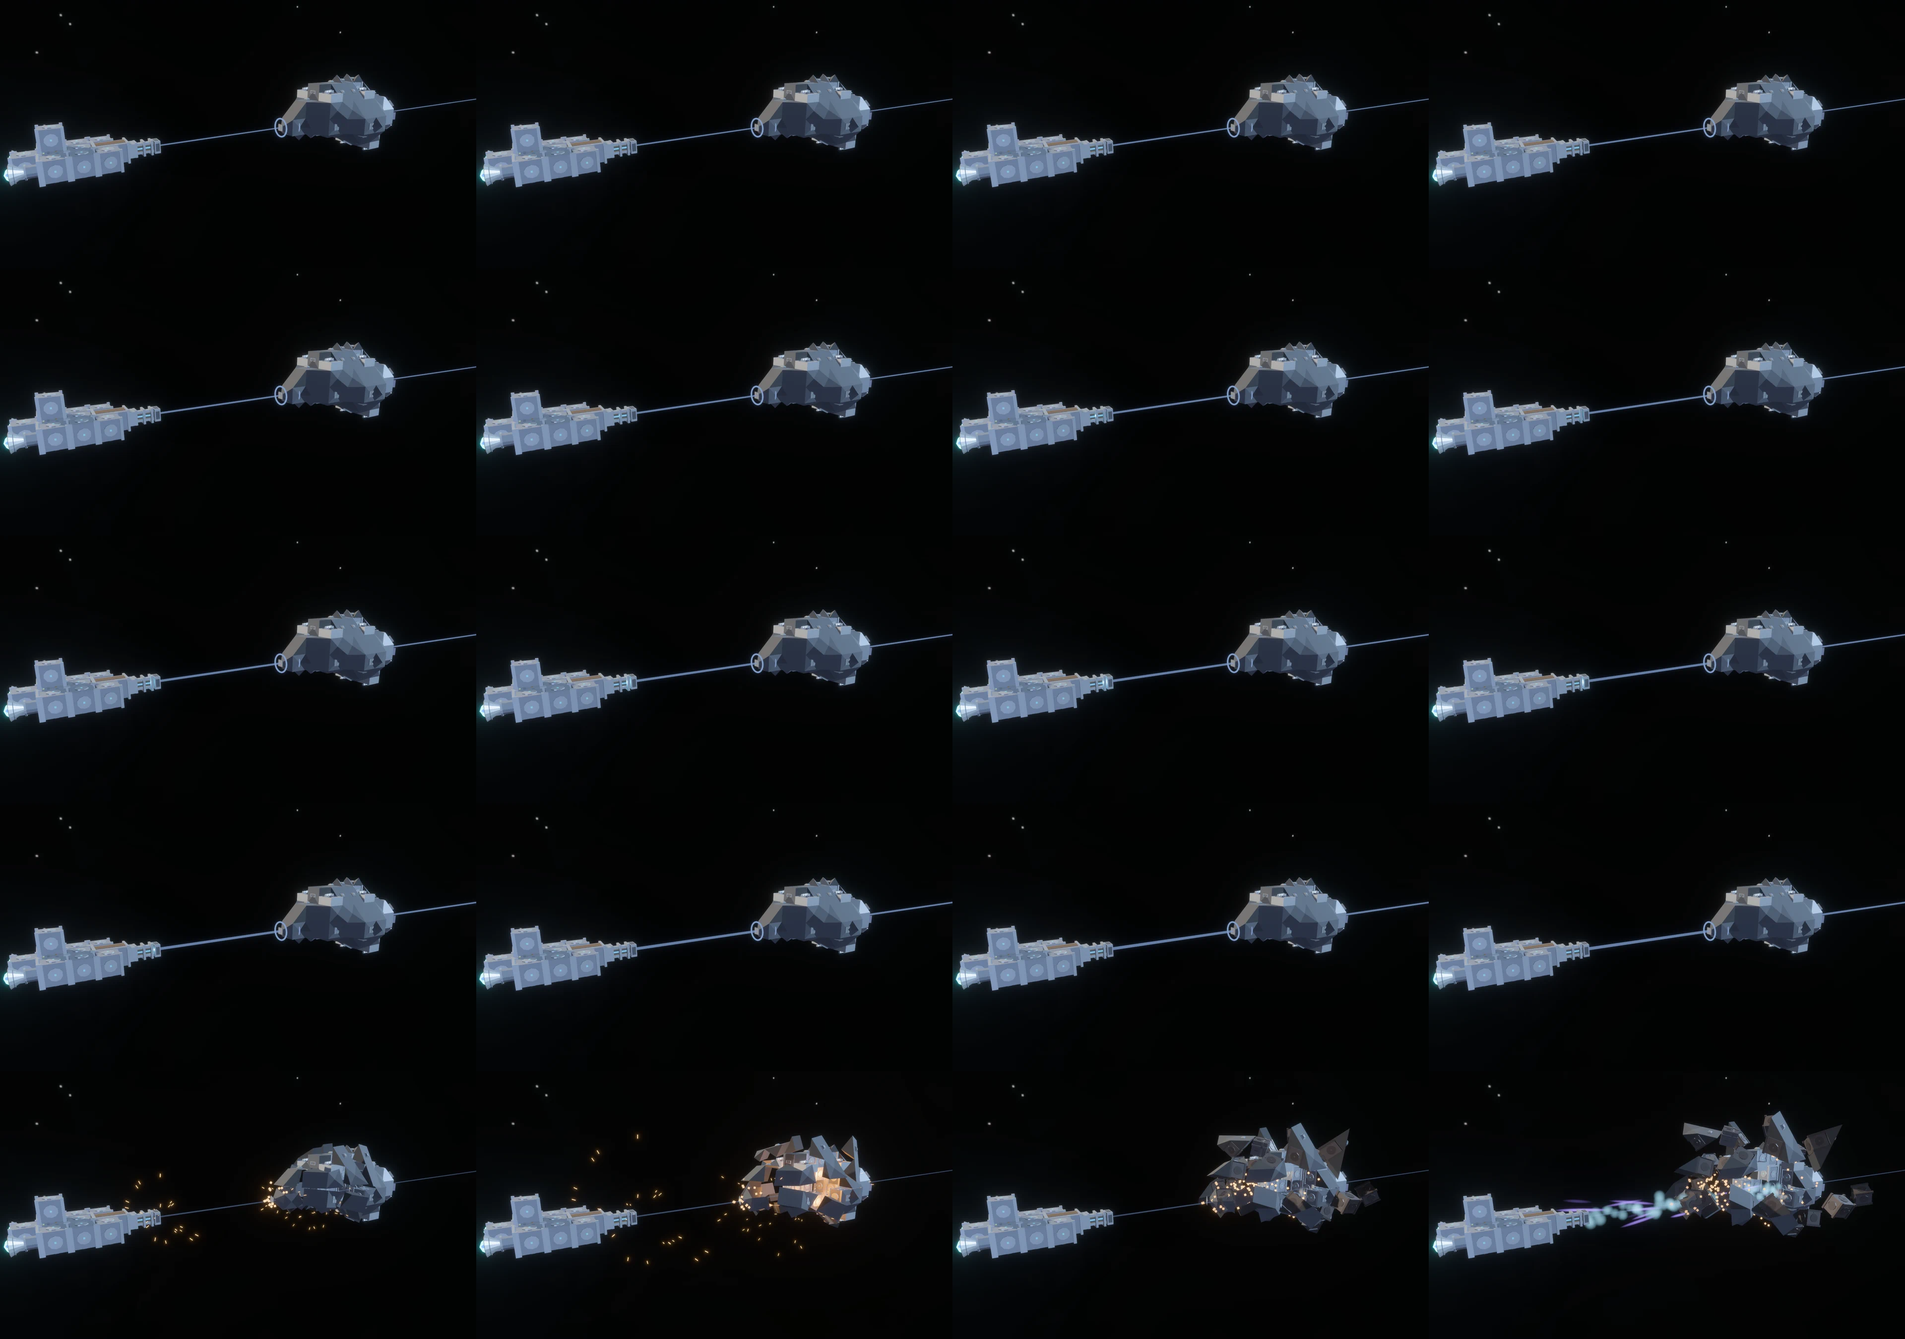
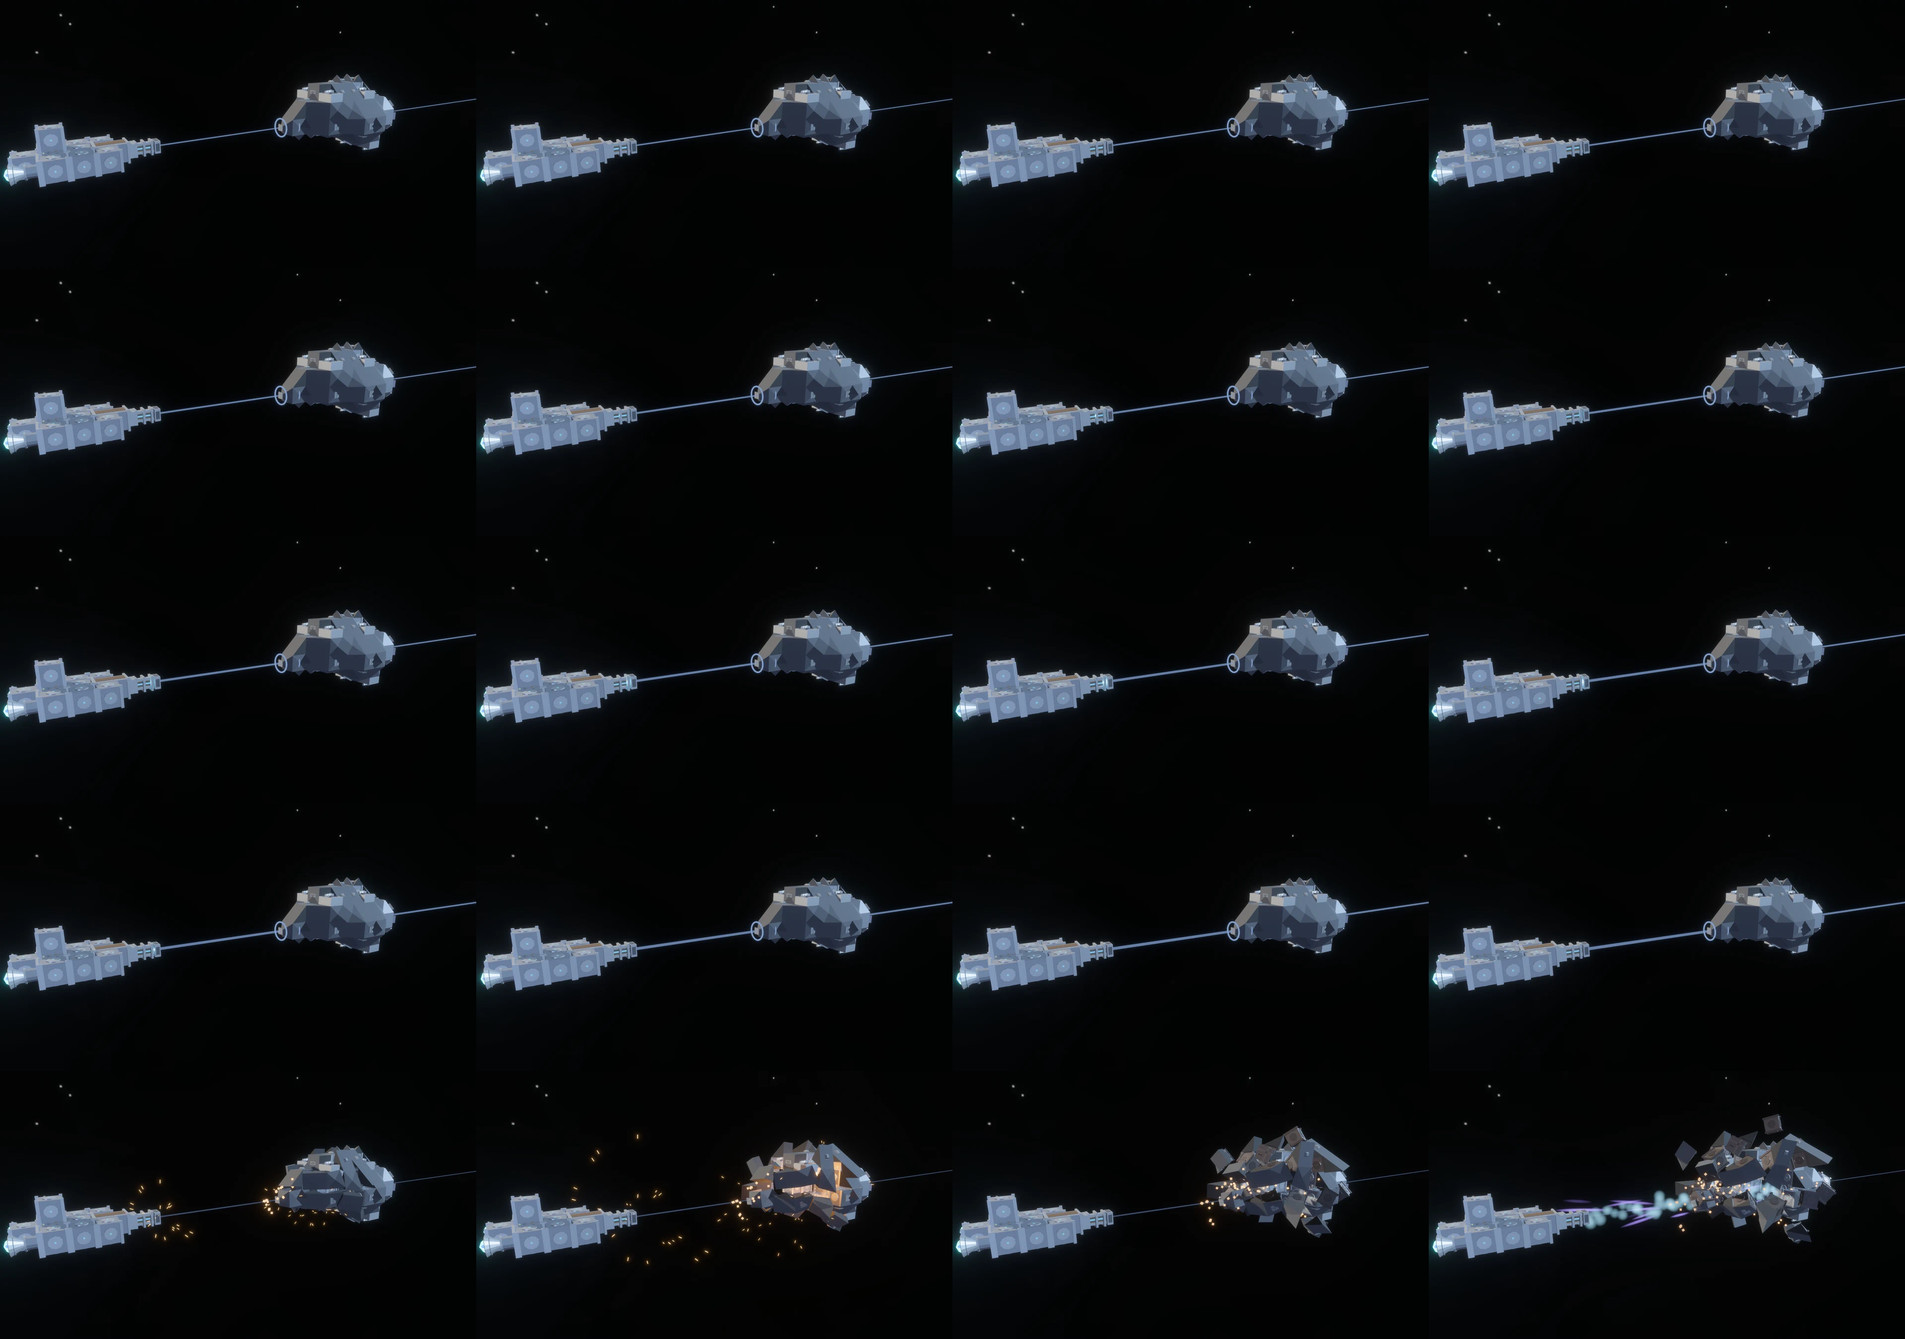
Film a lance sight walking across a hull
`combat_bore_sight` was placeholder art. It is now a third frame on the
lance producer, shot before either gun commits: the railgun frame opens
this same gunship, and a sight drawn over a wreck prices what is left.

The lesson's claim is a comparison - a shot down the long axis against
one catching a shoulder - so the sheet holds the lens and the target
still and AIMS. The gunboat yaws ten degrees off the bow-on hull's
centreline and back, eased by one cosine so the loop rests at each end
of the swing and wraps. Down the spine the trace prices nine sections;
out on the shoulder it prices three.

The first cut turned the TARGET instead, through its own beam. That
looks like the sentence and is not it: the corridor stayed seven to ten
sections deep at every aspect, because what a rake takes off a hull this
cheap barely depends on which way it is standing.

The lens stands on the target's PORT BOW, and both halves are forced. A
kill ring is drawn on the section it marks, so every ring but the first
is inside an opaque hull and only the entry face shows one - a cut from
astern came back as a thread crossing a hull with nothing marked on it.
Port, because the range's key light stands off to -X and the starboard
bow is the shadow side. The gunboat is 60 degrees off that axis and out
of shot; its thread arrives over the frame edge instead.

`the_swing_changed_the_rings` is the delivery guard: a sheet of a thread
[…]

diff --git a/examples/screenshots/lesson_combat_lance.rs b/examples/screenshots/lesson_combat_lance.rs
@@ -1,19 +1,59 @@
-//! lesson_combat_lance: the handbook's two demonstrations about a hull being
-//! killed - `combat_railgun`, a spinal lance committing to a shot, and
+//! lesson_combat_lance: the handbook's three demonstrations about a hull being
+//! killed - `combat_bore_sight`, the instrument that prices a shot before it is
+//! taken, `combat_railgun`, a spinal lance committing to one, and
 //! `combat_collapse`, the hull that shot guts letting go of the rest of itself.
 //!
-//! ## One scene, two rigs, two sheets
+//! ## One scene, two rigs, three sheets
 //!
-//! Both lessons are about the same act - a lance slug going through structure -
-//! read at the two ends of it, so they are photographed on one walk. The scene
-//! carries two ranges on parallel lanes, far enough apart that neither shot can
-//! reach the other's subject (see [`WRECK_LANE_X`]):
+//! All three lessons are about the same act - a lance slug going through
+//! structure - read at three points along it, so they are photographed on one
+//! walk. The scene carries two ranges on parallel lanes, far enough apart that
+//! neither shot can reach the other's subject (see [`WRECK_LANE_X`]):
 //!
 //! - the LANCE lane at the origin: a player gunboat with a lance on its spine,
 //!   bore down -Z, and a base Patrol Gunship downrange bow-on so the shot rakes
 //!   its long axis;
 //! - the WRECK lane, off to starboard: a siege lance on a bench, and a block
 //!   hull built so that ONE slug takes it under the collapse threshold.
+//!
+//! ## `combat_bore_sight` is a LOOP, and the loop is the AIMING
+//!
+//! "Aiming down a ship's long axis reads differently from catching its
+//! shoulder." That claim is a COMPARISON, and a still can only ever be one half
+//! of one. So this sheet holds the lens and the target still and AIMS: the
+//! gunboat yaws [`BORE_YAW_SWING`] off the bow-on hull's centreline and back,
+//! and the sight is re-priced under it every frame. Down the spine the trace
+//! runs the hull's whole length and rings nine or ten sections; out on the
+//! shoulder it clips a corner and rings two. Same gun, same range, same hull.
+//!
+//! It is the GUNBOAT that moves rather than the target, and the first cut of
+//! this frame had it the other way round. Turning the hull through its own beam
+//! looks like the lesson's sentence and is not it: the corridor stayed seven to
+//! ten sections deep at every aspect, because what the rake takes off a hull
+//! this cheap barely depends on which way it is standing. What the sentence is
+//! actually about is where on a hull the bore is laid, and that is an aiming
+//! gesture.
+//!
+//! The swing is EASED rather than steady - one cosine over the whole sheet, so
+//! it RESTS at each end of itself - which buys held cells of each half of the
+//! comparison with the crossing between them, and wraps: the recorder may
+//! double the cell it opens on, and that cell is one of a bore that is not
+//! moving.
+//!
+//! It is photographed FIRST, before either gun is committed, and it has to be:
+//! `combat_railgun` opens this same hull, and a sight drawn over a wreck prices
+//! what is left rather than what the lesson is about.
+//!
+//! What it cannot be is the railgun frame with a swing on it. That one stands
+//! abeam of the whole lane so both hulls fit, which leaves a kill ring 11 m
+//! across about thirty pixels of the cell and puts the gunship's far side to
+//! the lens. This one gives the gunboat up and stands on the target's port bow
+//! instead ([`BORE_EYE`]), because a ring is drawn on the section it marks and
+//! every ring but the entry one is inside an opaque hull.
+//!
+//! [`the_swing_changed_the_rings`] is this frame's delivery guard, and it is
+//! the one it needs: a sheet of a thread crossing a hull that priced the same
+//! sections throughout would tile perfectly and say nothing.
 //!
 //! ## `combat_railgun` is a LOOP, and the loop is the COMMIT
 //!
@@ -115,6 +155,9 @@ use nova_protocol::prelude::*;
 #[command(about = "Record the handbook's railgun commit and hull collapse", long_about = None)]
 struct Cli;
 
+/// The sheet for "The bore sight".
+#[cfg(feature = "debug")]
+const BORE_LESSON: &str = "combat_bore_sight";
 /// The sheet for "The hull is the aim".
 #[cfg(feature = "debug")]
 const RAILGUN_LESSON: &str = "combat_railgun";
@@ -248,6 +291,47 @@ const COLLAPSE_OPEN_CHARGE: f32 = 0.96;
 #[cfg(feature = "debug")]
 const COLLAPSE_SLOWDOWN: f32 = 0.11;
 
+/// How far the gunboat yaws off the target's spine at the far end of the
+/// bore-sight swing, in degrees.
+///
+/// MEASURED, and the measurement is not the hull's half-width. The gunship is
+/// 70 m across the bow, but what the rake finds out at the wings is one cell of
+/// plate: the trace still prices three sections at 10.3 degrees off the
+/// centreline and none at all at 11.8, so the shoulder this sheet is about is a
+/// 27 m band and the edge of the hull is a metre and a half past it.
+///
+/// Ten degrees, which lands inside that band: the far end of the swing is a
+/// shot catching a corner, not a shot missing. A sheet that swung wider spent
+/// seven of its twenty cells on a clean pass, which is a different lesson.
+#[cfg(feature = "debug")]
+const BORE_YAW_SWING: f32 = 10.0;
+
+/// Where the lens stands for the bore-sight sheet, and what it looks at.
+///
+/// On the target's PORT BOW quarter - 40 degrees off the lane, 16 above it and
+/// 97 m out - and both halves of that bearing are forced.
+///
+/// The BOW, because a kill ring is drawn on the section it marks and every ring
+/// but the first is inside a hull that is opaque: what a reader can see is the
+/// ring at the face the bore ENTERS. A first cut of this frame stood astern and
+/// showed a thread crossing a hull with nothing marked on it.
+///
+/// PORT, because of the light. The range's key light stands at (-60, 50, 60)
+/// off its aim point (`ThreePointRig`), so a lens on the starboard bow takes
+/// the shadow side and the same cut came back as a navy silhouette with a bright
+/// deck. This is within five degrees of the key's own bearing.
+///
+/// The stand-off is set by the ring. At 97 m the frame is 143 m across, the
+/// hull takes six tenths of it, and an 11 m ring is some seventy pixels of the
+/// cell - which is the smallest a ring can be drawn and still be read as a ring
+/// rather than as a smudge on a plate. The gunboat is 60 degrees off the axis
+/// and therefore out of shot; its thread arrives over the frame edge instead,
+/// which is the trade this frame makes for a mark a reader can see.
+#[cfg(feature = "debug")]
+const BORE_EYE: Meters3 = Meters3::new(-60.0, 27.0, -79.0);
+#[cfg(feature = "debug")]
+const BORE_AIM: Meters3 = Meters3::new(0.0, 0.0, -150.0);
+
 /// Where the lens stands for the railgun sheet, and what it looks at.
 ///
 /// Across the gap rather than down it, and close enough in that the cell's own
@@ -295,6 +379,7 @@ fn main() -> bevy::app::AppExit {
             lesson_profile(),
         ));
         app.init_resource::<LanceProbe>();
+        app.init_resource::<BoreAim>();
         app.add_observer(count_shots);
         app.add_observer(note_collapse);
         app.add_systems(
@@ -618,6 +703,13 @@ struct LanceProbe {
     target_sections: usize,
     /// Sections the block had before the siege shell reached it.
     block_sections: usize,
+    /// Kill rings the bore sight drew, one sample per frame of the turn.
+    ///
+    /// The whole series rather than a running minimum and maximum, because it
+    /// is what [`report_the_sight`] prints when the beat stalls: a count that
+    /// never moved and a count that collapsed to nothing fail the same
+    /// assertion and want different fixes.
+    sight_rings: Vec<usize>,
     /// Set the frame the block crossed the collapse threshold.
     ///
     /// Latched rather than read off the world, because the root does not
@@ -646,25 +738,43 @@ fn note_collapse(
     }
 }
 
-/// Hold the gunboat on its mark.
+/// Where the gunboat is pointing, in radians of yaw off the lane.
+///
+/// Zero for every frame but the bore-sight sheet's, which is the one beat that
+/// AIMS: see [`sweep_the_bore`]. Held as a resource rather than driven into the
+/// hull directly because [`hold_the_boat`] would put it straight back.
+#[cfg(feature = "debug")]
+#[derive(Resource, Default, Clone, Copy)]
+struct BoreAim(f32);
+
+/// Hold the gunboat on its mark, pointing where [`BoreAim`] says.
 ///
 /// The recoil is a real impulse on a free hull and the framing is measured from
 /// a boat at the origin, square with the world. Zeroing its velocities each
 /// frame is the posed-capture equivalent of `hollow::pin_player`.
+///
+/// Avian's [`Rotation`](avian3d::prelude::Rotation) is written beside the
+/// transform, because a posed heading is not a held one: the transform alone
+/// says where the hull is drawn and the rotation is what the bore is traced
+/// from, and the bore-sight sheet is a picture of the trace.
 #[cfg(feature = "debug")]
 fn hold_the_boat(
+    aim: Res<BoreAim>,
     mut boat: Query<
         (
             &mut Transform,
+            &mut avian3d::prelude::Rotation,
             &mut avian3d::prelude::LinearVelocity,
             &mut avian3d::prelude::AngularVelocity,
         ),
         (With<SpaceshipRootMarker>, With<PlayerSpaceshipMarker>),
     >,
 ) {
-    for (mut transform, mut linear, mut angular) in &mut boat {
+    let heading = Quat::from_rotation_y(aim.0);
+    for (mut transform, mut rotation, mut linear, mut angular) in &mut boat {
         transform.translation = Vec3::ZERO;
-        transform.rotation = Quat::IDENTITY;
+        transform.rotation = heading;
+        rotation.0 = heading;
         linear.0 = Vec3::ZERO;
         angular.0 = Vec3::ZERO;
     }
@@ -730,6 +840,46 @@ fn sections_of(world: &mut World, id: &str) -> usize {
         .into_iter()
         .filter(|child| world.get::<SectionMarker>(*child).is_some())
         .count()
+}
+
+/// Swing the bore off the target's spine and back, `frame` frames into the
+/// sheet.
+///
+/// Frame-indexed rather than clocked, for the reason `frames` gives: an armed
+/// run pins the clock to [`LESSON_FPS`] and the smoke run does not, so a swing
+/// driven by seconds would complete on the sheet and barely start on the walk
+/// that has to prove the same thing without one.
+///
+/// Eased by a cosine over one whole period, so the sheet RESTS at each end of
+/// itself - held cells of the shot down the spine, held cells of the shot on
+/// the shoulder, and the crossing in between. That is the lesson's own
+/// comparison, and it is also what makes the loop wrap: the recorder may double
+/// the cell it opens on, and that cell is one of a bore that is not moving.
+///
+/// Yawed toward the lens - a positive rotation about Y walks the bore toward
+/// -X, and [`BORE_EYE`] stands on the port bow - so the shoulder the swing ends
+/// on is the one facing the camera, where its kill ring is drawn on a face in
+/// shot rather than on the far side of the hull.
+#[cfg(feature = "debug")]
+fn sweep_the_bore(world: &mut World, frame: u32) {
+    let phase = std::f32::consts::TAU * frame as f32 / LESSON_GRID.frames() as f32;
+    let yaw = BORE_YAW_SWING.to_radians() * 0.5 * (1.0 - phase.cos());
+    world.insert_resource(BoreAim(yaw));
+}
+
+/// How many sections the bore sight is promising to destroy right now.
+#[cfg(feature = "debug")]
+fn kill_rings(world: &mut World) -> usize {
+    world
+        .try_query_filtered::<Entity, With<BoreSightMark>>()
+        .map_or(0, |mut rings| rings.iter(world).count())
+}
+
+/// Sample the sight for this frame of the swing.
+#[cfg(feature = "debug")]
+fn note_the_rings(world: &mut World) {
+    let rings = kill_rings(world);
+    world.resource_mut::<LanceProbe>().sight_rings.push(rings);
 }
 
 /// Whether both lances have arrived.
@@ -844,6 +994,52 @@ fn lower_weapons(world: &mut World) {
 #[cfg(feature = "debug")]
 fn commit(world: &mut World, lance: Entity) {
     world.entity_mut(lance).insert(ScriptedRailgunOrder);
+}
+
+/// What the sight priced at each frame of the swing, for a stalled beat.
+#[cfg(feature = "debug")]
+fn report_the_sight(world: &World) -> String {
+    let rings = &world.resource::<LanceProbe>().sight_rings;
+    format!("kill rings per frame of the swing: {rings:?}")
+}
+
+/// The fewest sections the two ends of the swing have to differ by.
+///
+/// The lesson's claim is a COMPARISON, and a comparison needs a gap a reader
+/// can see. A shot down this hull's spine prices some nine or ten sections and
+/// one on its shoulder a couple, so four is a wide margin on the delivered
+/// scene and still fails the moment the two ends of the swing stop saying
+/// different things.
+#[cfg(feature = "debug")]
+const MIN_RING_SPREAD: usize = 4;
+
+/// The DELIVERY GUARD for the bore-sight sheet: the sight has to have drawn,
+/// and the swing has to have changed what it drew.
+///
+/// A sheet of a bore crossing a hull under a line that priced the same sections
+/// throughout tiles just as cleanly as the demonstration and says nothing, and
+/// it is the failure this frame cannot survive. Read off the rings the walk
+/// counted rather than off the hull, because what is being checked is the
+/// INSTRUMENT.
+#[cfg(feature = "debug")]
+fn the_swing_changed_the_rings(world: &mut World) {
+    let rings = world.resource::<LanceProbe>().sight_rings.clone();
+    let most = rings.iter().copied().max().unwrap_or(0);
+    let fewest = rings.iter().copied().min().unwrap_or(0);
+    info!(
+        "bore sight: {fewest} to {most} sections priced across the swing, frame by frame {rings:?}"
+    );
+    assert!(
+        fewest > 0,
+        "the bore sight came off the hull somewhere in the swing and marked nothing, so the sheet \
+         spends cells on a clean miss instead of on the shoulder the lesson names"
+    );
+    assert!(
+        most >= fewest + MIN_RING_SPREAD,
+        "the sight priced {fewest} to {most} sections across the whole swing, which is under the \
+         {MIN_RING_SPREAD} a reader can see, so the sheet cannot show that a shot down the long \
+         axis reads differently from one catching a shoulder"
+    );
 }
 
 /// The DELIVERY GUARD for the railgun sheet: the authored charge has to leave
@@ -971,6 +1167,43 @@ fn lance_script() -> nova_protocol::nova_debug::harness::AutopilotPlugin<GameSta
         .on_enter(|world: &mut World| {
             hide_status_bar(world);
             raise_weapons(world);
+            pose_camera(world, BORE_EYE, BORE_AIM);
+        })
+        .until(frames(SETTLE_FRAMES))
+        .add()
+        // The bore sight FIRST, on a whole hull: the railgun frame opens this
+        // same gunship, and a sight drawn over a wreck prices what is left of
+        // it. The swing and the wait are both counted in FRAMES so the sheet
+        // lands on the armed run and on the smoke walk alike.
+        .step("swing the bore across the target and record it")
+        .on_enter(|world: &mut World| {
+            world.resource_mut::<LanceProbe>().sight_rings.clear();
+            sweep_the_bore(world, 0);
+            sheet_start(world, BORE_LESSON, LESSON_GRID);
+        })
+        .each(|world: &mut World, _, frame| {
+            sweep_the_bore(world, frame);
+            note_the_rings(world);
+        })
+        // BOTH, and the swing is the half that matters: `sheet_written` holds
+        // the instant it is asked on the smoke path, so a wait on it alone
+        // would drive the unarmed run past the aiming it exists to prove.
+        .until(and(
+            sheet_written(BORE_LESSON),
+            frames(LESSON_GRID.frames()),
+        ))
+        .deadline(240.0)
+        .diagnose(report_the_sight)
+        .add()
+        .step("the sight drew, and the swing changed what it drew")
+        .on_enter(the_swing_changed_the_rings)
+        .until(frames(1))
+        .add()
+        // Square on the lane again, and back to its own framing: the railgun
+        // frame is measured from a boat bore-on to the hull it opens.
+        .step("square the gunboat back on the lane")
+        .on_enter(|world: &mut World| {
+            sweep_the_bore(world, 0);
             pose_camera(world, SIGHT_EYE, SIGHT_AIM);
         })
         .until(frames(SETTLE_FRAMES))

diff --git a/crates/nova_authoring/src/base_content/lessons.rs b/crates/nova_authoring/src/base_content/lessons.rs
@@ -772,9 +772,9 @@ pub(crate) fn lesson_catalog() -> Vec<Lesson> {
             "The bore sight",
             looping(
                 "combat_bore_sight",
-                "the sight line out of a spinal railgun and across the gap onto a gunship's long \
-                 axis, a ring on each section the shot would destroy, and the line fattening as \
-                 the charge runs",
+                "a railgun's sight line arriving over the frame edge and crossing a patrol \
+                 gunship, with a blue ring on a section the shot would destroy, and the ring \
+                 walking the length of the hull as the gun is aimed off the spine and back",
             ),
             "A blue line runs from the muzzle to where the slug would stop, with a ring on every \
              section that shot would destroy. Aiming down a ship's long axis reads differently \
